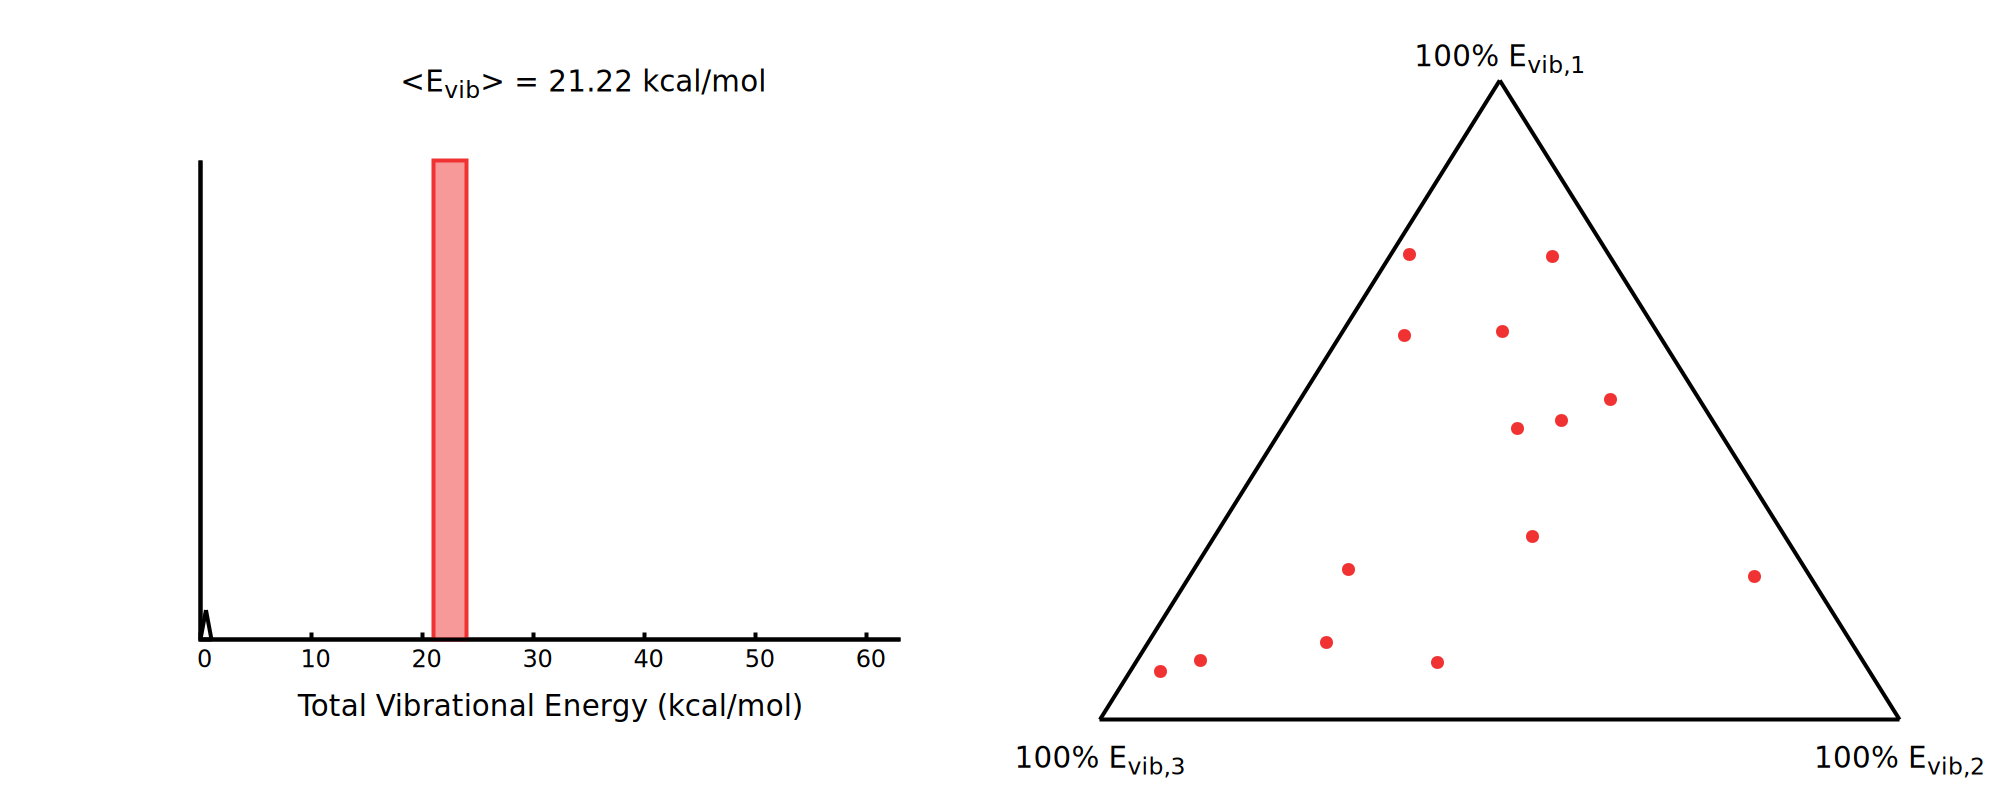
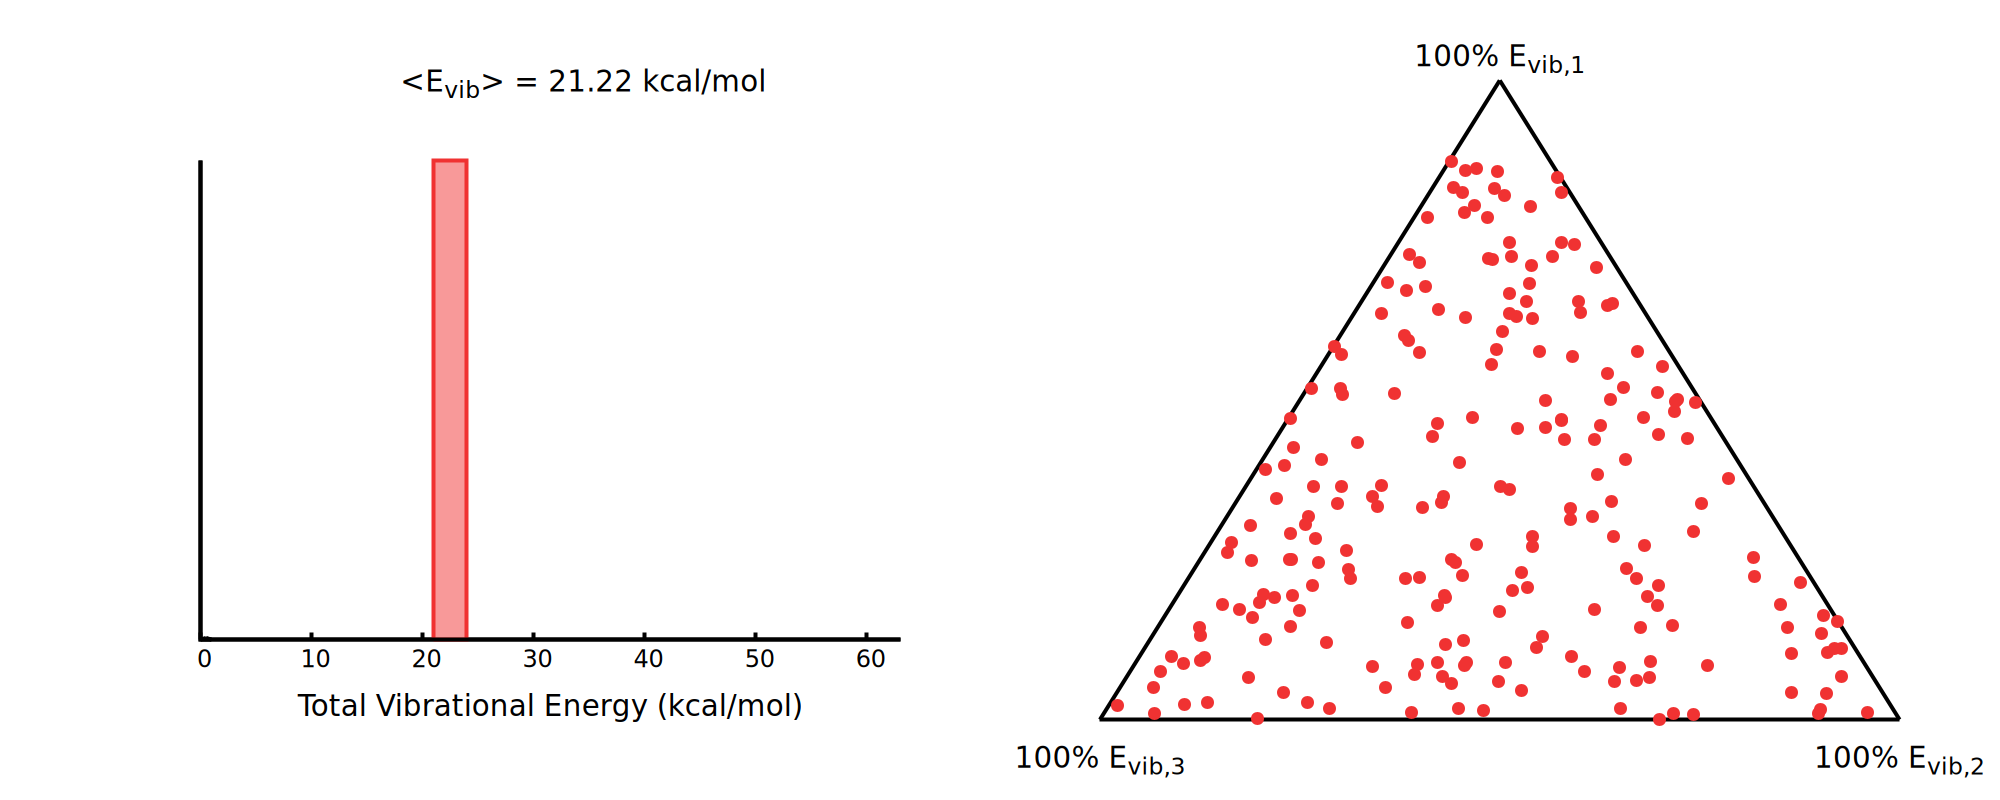
More markdown...

diff --git a/README.md b/README.md
@@ -49,7 +49,7 @@ pip install tblite
 ### Canonical Sampling
 
 <details>
-<summary>Click here to expand the instructions</summary>
+<summary>Click here to do the example</summary>
 
 Water is a nonlinear molecule with three atoms, so it has three normal modes. The vibrational quanta of each mode will be sampled from a canonical ensemble, which assumes energies in each mode are related by a temperature. The frequency of the modes dictates the distribution of quanta and their energies. With xTB, these frequencies are 3653 cm<sup>-1</sup> > 3645 cm<sup>-1</sup> > 1538 cm<sup>-1</sup> for the symmetric stretch, asymmetric stretch, and bending modes, respectively. VENUSpy can sample these with:
 
@@ -57,9 +57,17 @@ Water is a nonlinear molecule with three atoms, so it has three normal modes. Th
 python -u cli.py H2O.input.xyz H2O.input.xtb .  --atomsInFirstGroup "1 2 3" --production 100 --interval 1 --time_step 0.15 --INITQPa "thermal" --TVIBa 298.0 --TROTa 0.0 --n_threads 1 > production.log
 ```
 
+While tracking the normal mode breakdown of energies over the entire trajectory is slow (this requires a Hessian calculation at each step), this can be done for the first frame from the initial sampling. Search for the `Evibs` keyword in the output to see energies of each mode (in eV).
+
+```
+grep Evibs production.log
+```
+
+When this is done repeatedly, we can get some statistical information by looking at the distribution of individual and total vibrational energies sampled.
+
 <img align="center" width="600" height="250" src="images/canonical.298K.png">
 
-The resulting distribution of vibrational energies in each mode is shown in the figure above. Nearly all molecules are in their ground vibrational state with energies of 0.23, 0.23, and 0.10 kcal/mol. This results in only a single possible combination of energies sampled. At higher temperatures, the higher vibrational states start to get populated. At 3000K, if we repeat the procedure, we instead see a distribution as follows:
+The resulting distribution of vibrational energies in each mode is shown in the figure above. Nearly all molecules are in their ground vibrational state with energies of 0.23, 0.23, and 0.10 kcal/mol. This results in only a single possible combination of energies sampled. At higher temperatures, the higher vibrational states start to get populated. At 3000K, if we repeat the procedure with the argument `--TVIBa 3000.0`, we instead see a distribution as follows:
 
 <img align="center" width="600" height="250" src="images/canonical.3000K.png">
 
@@ -68,17 +76,25 @@ The resulting distribution of vibrational energies in each mode is shown in the 
 ### Microcanonical Sampling
 
 <details>
-<summary>Click here to expand the instructions</summary>
+<summary>Click here to do the example</summary>
 
-Water is a nonlinear molecule with three atoms, so it has three normal modes. The vibrational energies of each mode will be sampled from a microcanonical ensemble, which assumes uniform mixing of energies between all modes. The frequency of the modes dictates the absolute amount of energy ultimately given to a mode. With xTB, these frequencies are 3653 cm-1 > 3645 cm-1 > 1538 cm-1 for the symmetric stretch, asymmetric stretch, and bending modes, respectively. VENUSpy can sample these with:
+Water is a nonlinear molecule with three atoms, so it has three normal modes. The vibrational energies of each mode will be sampled from a microcanonical ensemble, which assumes uniform mixing of energies between all modes. The frequency of the modes dictates the absolute amount of energy ultimately given to a mode. With xTB, these frequencies are 3653 cm<sup>-1</sup> > 3645 cm<sup>-1</sup> > 1538 cm<sup>-1</sup> for the symmetric stretch, asymmetric stretch, and bending modes, respectively. VENUSpy can sample these with:
 
 ```
 python -u cli.py H2O.input.xyz H2O.input.xtb .  --atomsInFirstGroup "1 2 3" --production 100 --interval 1 --time_step 0.15 --INITQPa "microcanonical" --EVIBa 12.6372 --EROTa 0.0 --n_threads 1 > production.log
 ```
 
+While tracking the normal mode breakdown of energies over the entire trajectory is slow (this requires a Hessian calculation at each step), this can be done for the first frame from the initial sampling. Search for the `Evibs` keyword in the output to see energies of each mode (in eV).
+
+```
+grep Evibs production.log
+```
+
+When this is done repeatedly, we can get some statistical information by looking at the distribution of individual and total vibrational energies sampled.
+
 <img align="center" width="600" height="250" src="images/microcanonical.12.63.png">
 
-The resulting distribution of vibrational energies in each mode is shown in the figure above. The total amount of vibrational energy is uniformly mixed over all three modes, resulting in a seemingly random distribution of combinations of energies. In this way, a microcanonical ensemble favors mixing mode energies over explicit quantizations. The same behaviour is seen at all excitations, including one corresponding to the avereage energy of the 3000K canonical ensemble from the previous example:
+The resulting distribution of vibrational energies in each mode is shown in the figure above. Although only a single total vibrational energy is sampled, the energy is uniformly mixed over all three modes, resulting in a seemingly random distribution of combinations of energies. In this way, a microcanonical ensemble favors mixing mode energies over explicit quantizations. The same behaviour is seen at all excitations, including one corresponding to the avereage energy of the 3000K canonical ensemble (21.22 kcal/mol) from the previous example. If we repeat the procedure with the argument `--EVIBa 21.220`, we then see a distribution as follows:
 
 <img align="center" width="600" height="250" src="images/microcanonical.21.22.png">
 
